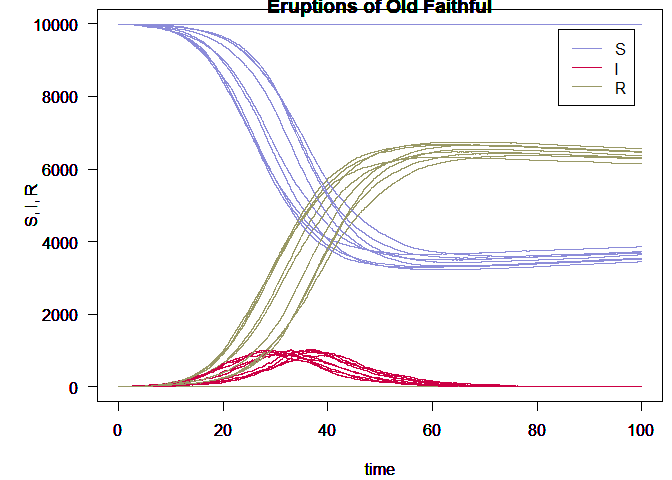
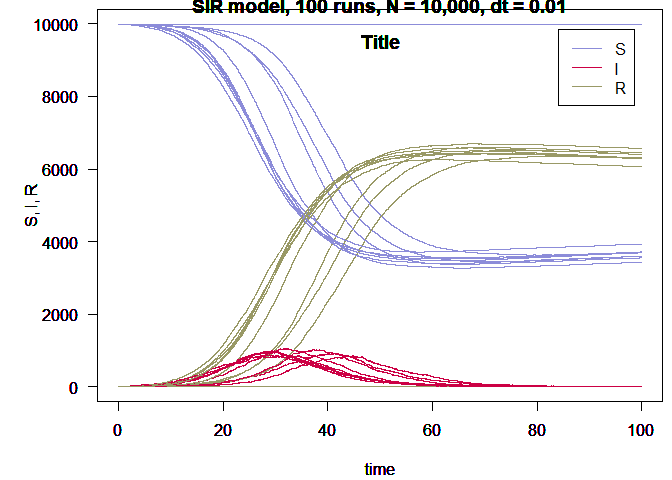
Added latest figures and updated Readmes

Changed region(s): [[0.2188, 0.0, 0.9688, 0.8125], [0.5312, 0.0625, 0.5938, 0.125]]

diff --git a/README.md b/README.md
@@ -47,32 +47,12 @@ draw with `n = I` and `p = sigma * dt`. Note, N = S + I + R.
 This is a basic example which shows you how to solve a common problem.
 The model is run once for 10,000 iterations with a time step of 0.01
 
-<div class="figure" style="text-align: center">
-
-<img src="man/figures/README-unnamed-chunk-2-1.png" alt="SIR simulation run once, N = 10,000 and dt = 0.01" width="100%" />
-
-<p class="caption">
-
-SIR simulation run once, N = 10,000 and dt = 0.01
-
-</p>
-
-</div>
+<img src="man/figures/README-unnamed-chunk-2-1.png" width="100%" />
 
 This time the model is run a hundred times for 10,000 iterations with a
 time step of 0.01 using the same code.
 
-<div class="figure" style="text-align: center">
-
-<img src="man/figures/README-unnamed-chunk-3-1.png" alt="SIR simulation run 100 times, N = 10,000 and dt = 0.01" width="100%" />
-
-<p class="caption">
-
-SIR simulation run 100 times, N = 10,000 and dt = 0.01
-
-</p>
-
-</div>
+<img src="man/figures/README-unnamed-chunk-3-1.png" width="100%" />
 
 ## License
 
